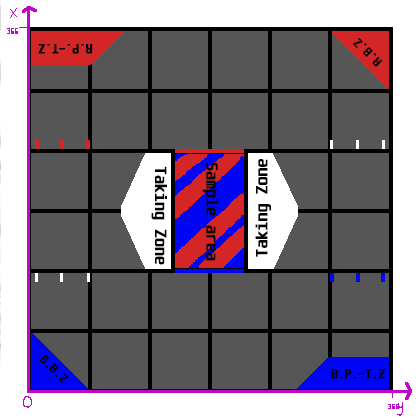
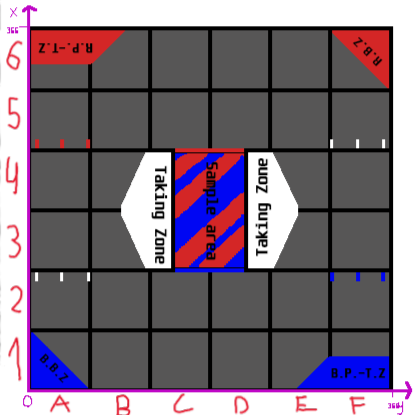
Update 1.66 Starting new thing

Changed region(s): [[0.0, 0.0, 1.0, 1.0]]

diff --git a/TeamCode/src/main/java/org/firstinspires/ftc/teamcode/FieldView/FieldPosCore/FieldHandler.java b/TeamCode/src/main/java/org/firstinspires/ftc/teamcode/FieldView/FieldPosCore/FieldHandler.java
@@ -1,14 +1,95 @@
 package org.firstinspires.ftc.teamcode.FieldView.FieldPosCore;
 
-import android.graphics.ImageFormat;
-import android.media.ImageReader;
-import android.os.Handler;
+import org.firstinspires.ftc.teamcode.RobotCore.Utils.Position;
 
-
-import java.io.File;
+import java.util.ArrayList;
 
 public class FieldHandler {
-    double Field[][] = new double[366][366];
 
+    Field field;
 
+    public void init(){
+        field = new Field();
+        field.initField();
+        createAndLoadAllCellsInField();
+    }
+
+    public void createAndLoadAllCellsInField(){
+        String[] Alphabetical = {"A", "B", "C", "D", "E", "F"};
+        String[] Numberious = {"1", "2", "3", "4", "5", "6"};
+
+        for (int i = 0; i < 6; i++) {
+            for (int j = 0; j < 6; j++) {
+                field.setCellInField(new Cell(Alphabetical[i], Numberious[j]));
+            }
+        }
+    }
+
+    private class Field{
+
+        public Field(){
+
+        }
+
+        private ArrayList<Cell> allCellsOnField;
+
+        private final int width = 366;
+        private final int height = 366;
+        private double field[][];
+
+        private void calculateCellCoordinate(){
+            for (int i = 0; i < 36; i++) {
+                allCellsOnField.get(i).setPosition(new Position(), );
+            }
+        }
+
+        public void setCellInField(Cell cell){
+            allCellsOnField.add(cell);
+        }
+
+        public void initField(){
+            field = new double[width][height];
+            allCellsOnField = new ArrayList<Cell>();
+        }
+
+    }
+
+    private class Cell{
+
+        public Cell(String alphabeticalCoord, String numberCoord){
+            this.alphabeticalCoord = alphabeticalCoord;
+            this.numberCoord = numberCoord;
+
+            initCell();
+
+            coord[0] = alphabeticalCoord;
+            coord[1] = numberCoord;
+        }
+
+        private double cell[][];
+
+        private final int width = 61;
+        private final int height = 61;
+
+        private Position posUpperLineCell;
+        private Position posDownLineCell;
+
+        private String[] coord = new String[2];
+
+        private String alphabeticalCoord;
+        private String numberCoord;
+
+        public String[] getCoordString(){
+            return coord;
+        }
+
+        public void setPosition(Position posDownLineCell, Position posUpperLineCell){
+            this.posDownLineCell = posDownLineCell;
+            this.posUpperLineCell = posUpperLineCell;
+        }
+
+        public void initCell(){
+            cell = new double[width][height];
+        }
+    }
 }

diff --git a/TeamCode/src/main/java/org/firstinspires/ftc/teamcode/OpModes/Robot.java b/TeamCode/src/main/java/org/firstinspires/ftc/teamcode/OpModes/Robot.java
@@ -260,17 +260,17 @@ public class Robot extends RobotCore implements CONSTS, CONSTSTELESKOPE {
         double max_speed = 0.6;
         double accelLinear = 1.3, accelAngle = 1.3;
 
-        if(g1.left_trigger > 0.05){//Ускорение робота
+        if(g1.left_trigger > 0.05 && g1.right_trigger < 0.05){//Ускорение робота
             accelLinear = 1.8;
             accelAngle = 1.8;
         }
 
-        if(g1.right_trigger > 0.05){//Замедление робота
+        if(g1.right_trigger > 0.05 && g1.left_trigger < 0.00){//Замедление робота
             accelLinear = 0.1;
             accelAngle = 0.1;
         }
 
-        if(g1.right_bumper){
+        if(g1.right_bumper && !g1.left_bumper){
             if(joysticks.getGear() == 5){
                 max_speed /= 1.2;
             } else if (joysticks.getGear() == 4) {
@@ -282,7 +282,7 @@ public class Robot extends RobotCore implements CONSTS, CONSTSTELESKOPE {
             }
         }
 
-        if (g1.left_bumper){
+        if (g1.left_bumper && !g1.right_bumper){
             if(joysticks.getGear() == 2){
                 max_speed *= 1.2;
             } else if (joysticks.getGear() == 3) {
